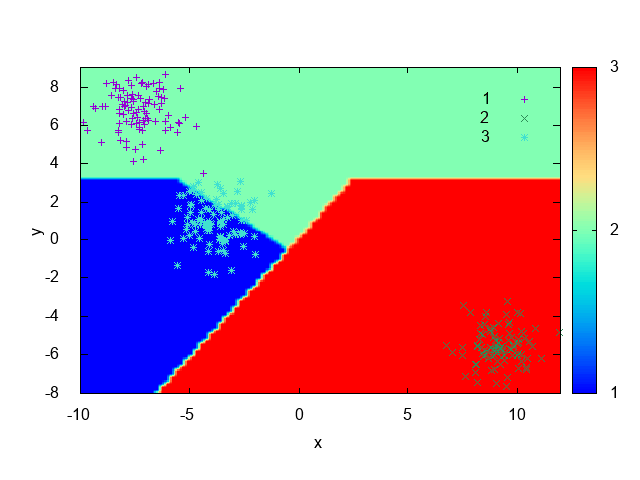
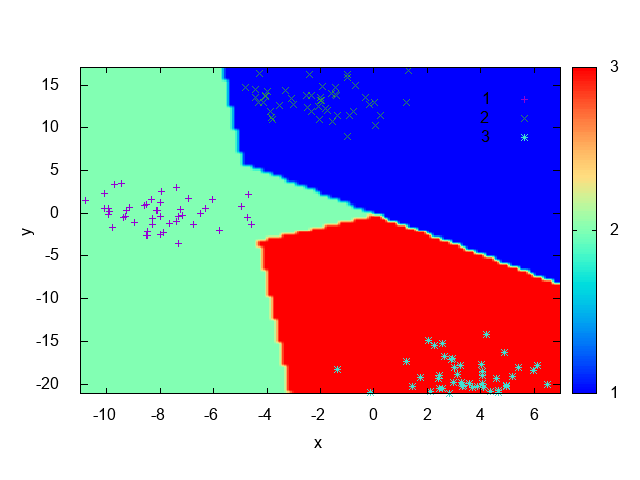
update classification docs.

diff --git a/getting_started/classification.rst b/getting_started/classification.rst
@@ -34,9 +34,9 @@ or
 .. figure:: images/classification/binclass.png
   :width: 450
   :align: center
-  :alt: Click **Next** button.
+  :alt: Example of a binary classification problem with a linear discriminant.
 
-  Exemple of a binary classification problem with a linear discriminant (purple line).
+  Example of a binary classification problem with a linear discriminant.
 
 
 The Perceptron algorithm
@@ -92,7 +92,6 @@ The Perceptron dual algorithm
     int main() {
         auto data = mltk::datasets::make_spirals(500);
         vis::Visualization<> vis(data);
-
         classifier::PerceptronDual<double> perceptron(data, mltk::KernelType::GAUSSIAN, 0.5);
 
         perceptron.train();
@@ -130,14 +129,14 @@ The One-vs-One algorithm
     namespace classifier = mltk::classifier;
 
     int main() {
-        auto data = mltk::datasets::make_blobs(100, 3).dataset;
+        auto data = mltk::datasets::make_blobs(50, 3, 2, 1.5, -20, 20, true, true, 10).dataset;
         vis::Visualization<> vis(data);
         classifier::PerceptronPrimal<double> perceptron;
         classifier::OneVsOne<double> ovo(data, perceptron);
 
         ovo.train();
 
-        vis.plotDecisionSurface2D(ovo, 0, 1, true, 100, true, 1, "", "png");
+        vis.plotDecisionSurface2D(ovo, 0, 1, true, 100, true);
 
         return 0;
     }
@@ -160,7 +159,7 @@ The One-vs-All algorithm
     namespace classifier = mltk::classifier;
 
     int main() {
-        auto data = mltk::datasets::make_blobs(100, 3).dataset;
+        auto data = mltk::datasets::make_blobs(50, 3, 2, 1.5, -20, 20, true, true, 10).dataset;
         vis::Visualization<> vis(data);
         classifier::PerceptronPrimal<double> perceptron;
         classifier::OneVsAll<double> ova(data, perceptron);
